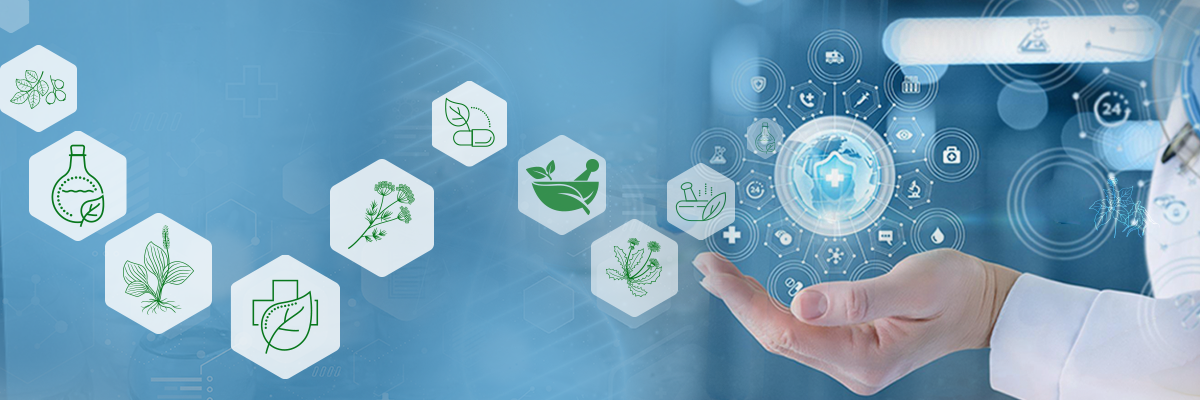
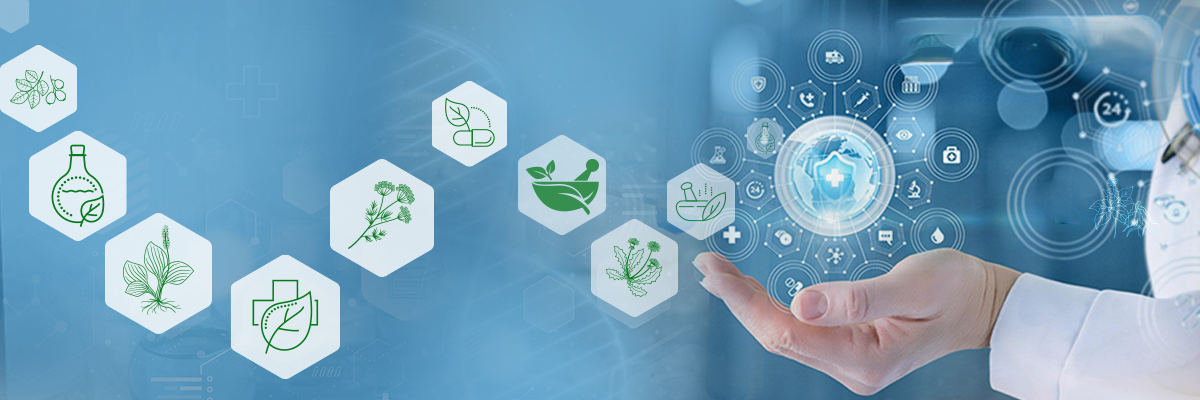
chore: Changed the images

Changed region(s): [[0.7092, 0.03, 0.9867, 0.18]]

diff --git a/src/pages/Environment.jsx b/src/pages/Environment.jsx
@@ -18,7 +18,8 @@ import HeroBottomLeft from '../assets/Images/hero-bottom-left.svg';
 import HeroTopLeft from '../assets/Images/hero-top-left.svg';
 import HeroMarqueeIcon from '../assets/Images/hero-marquee-icon.svg';
 // import AyushBannerImage from "../assets/Images/ayush-integration-image.jpg";
-import AyushBannerImage from "../assets/Images/ayush-integration-image-2.jpg";
+// import AyushBannerImage from "../assets/Images/ayush-integration-image-2.jpg";
+import AyushBannerImage from "../assets/Images/ayush.png";
 import BackgroundImage from "../assets/Images/pexels-googledeepmind-17485706.jpg";
 
 import {

diff --git a/src/pages/Contact.jsx b/src/pages/Contact.jsx
@@ -3,7 +3,7 @@ import React, { useState } from 'react'
 import { AnimatePresence, motion } from 'framer-motion'
 import emailjs from '@emailjs/browser'
 
-import ContactHeroImage from '../assets/Images/contact-hero-image2.png'
+import ContactHeroImage from '../assets/Images/contact-hero-image5.jpg'
 import RoundedBottomRight from '../assets/Images/hero-bottom-right.svg'
 import RoundedBottomLeft from '../assets/Images/hero-bottom-left.svg'
 // import PrimaryButton from '../components/PrimaryButton'
